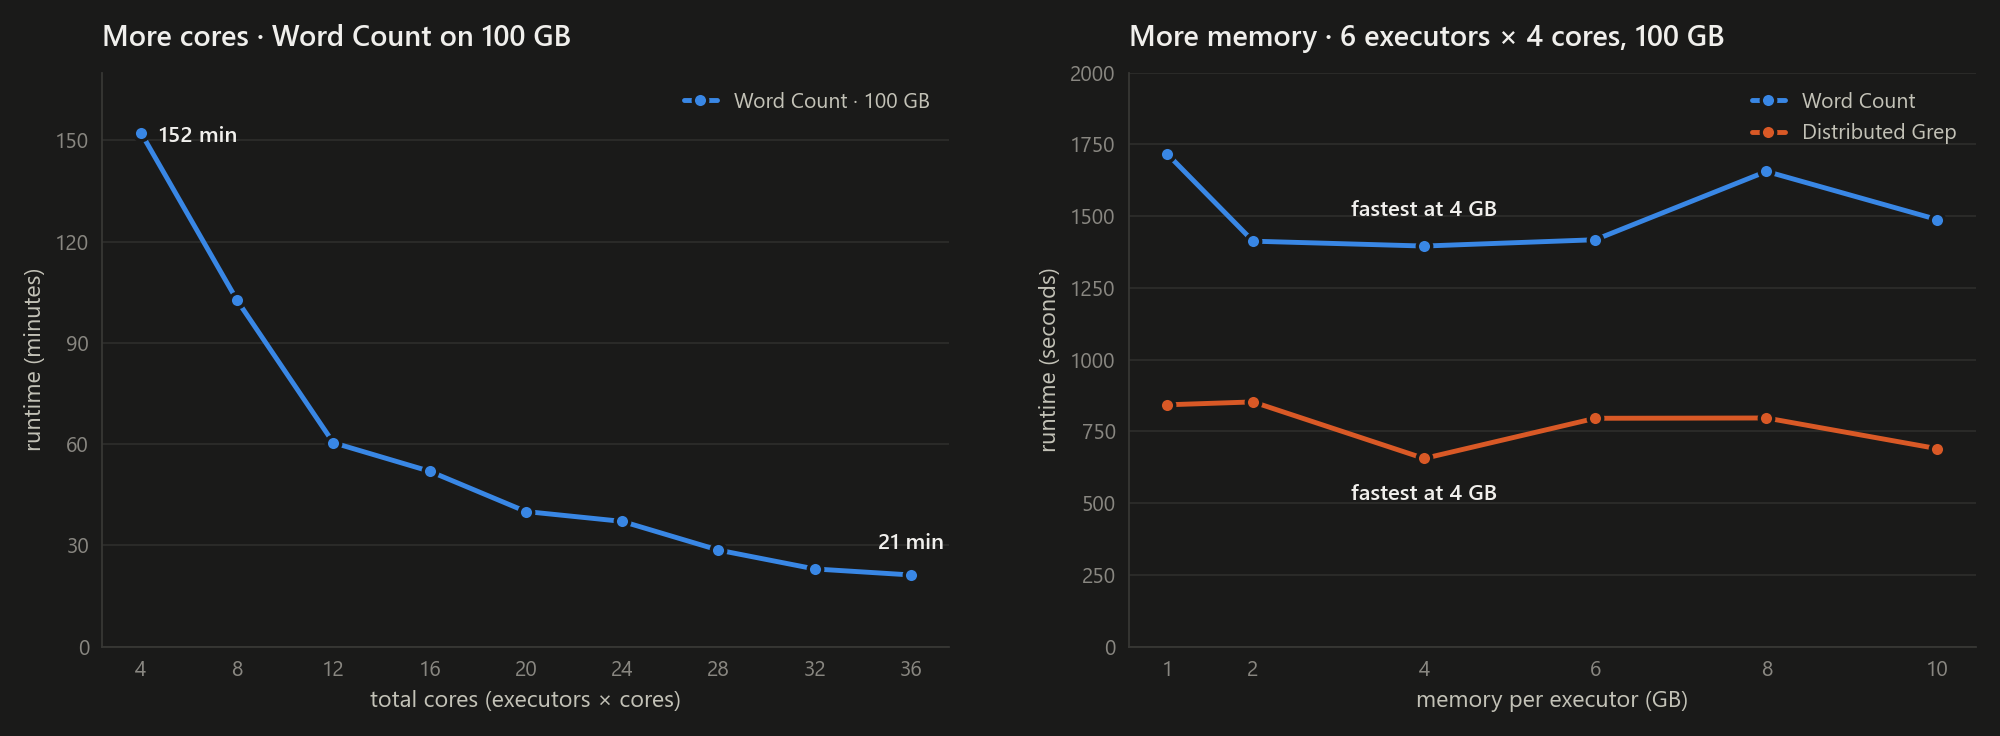
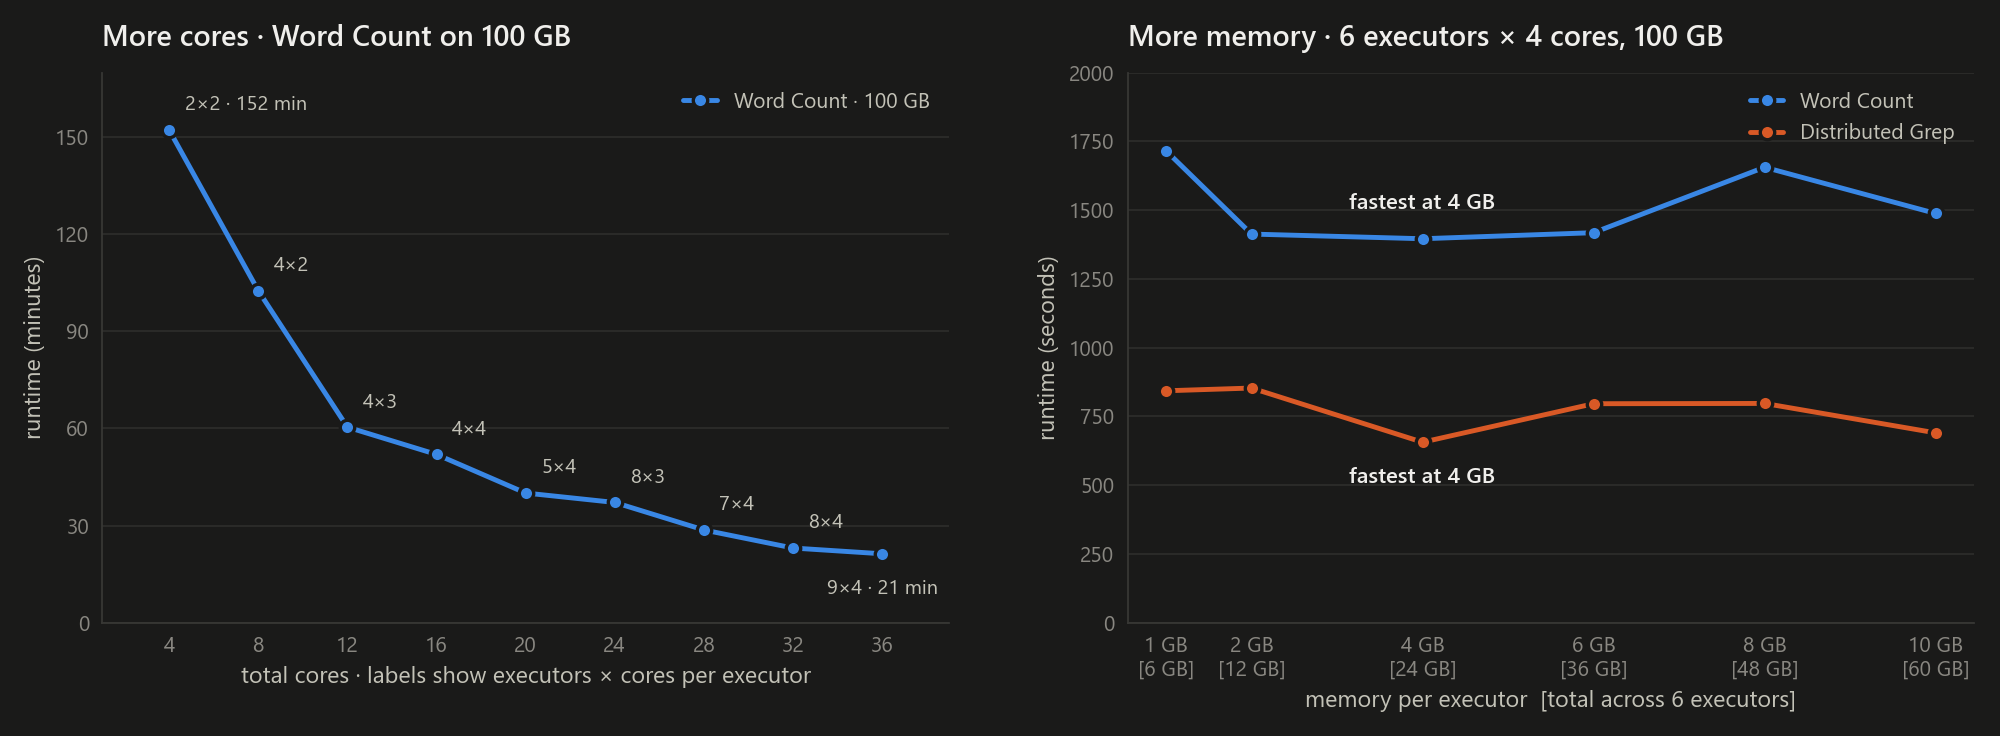
Restore all original chart detail; drop video link; fix map link
- Add runtime-vs-executors charts for all four programs and a throughput
  chart for Statistical Analysis and K-Means, which the speed-up charts
  alone no longer showed
- Label every point on the cores chart with executors x cores, and show
  total memory under each memory setting
- Add the full Word Count dataset x executors sweep as a table
- Remove the demo video link, keeping the full report link
- Replace the GitHub Pages map link (404 while the repo is private) with
  instructions to download and open docs/map/index.html

diff --git a/docs/charts/build_charts.py b/docs/charts/build_charts.py
@@ -103,6 +103,43 @@ for mode, t in THEMES.items():
     legend(b, t)
     save(fig, "executors", mode)
 
+    # 1b - the absolute runtimes behind those speed-ups
+    fig, (a, b) = figure(t)
+    for df, key, name in [(wc_exec, "wc", "Word Count"), (grep_exec, "grep", "Distributed Grep")]:
+        line(a, t, df["num_executors"], df["runtime_seconds"], t[key], name)
+        first, last = df["runtime_seconds"].iloc[0], df["runtime_seconds"].iloc[-1]
+        end_label(a, t, 1, first, f"{first / 60:.0f} min", dx=-10, ha="right")
+        end_label(a, t, 10, last, f"{last / 60:.0f} min", dy=10 if key == "wc" else -10)
+    style(a, t, "Text workloads · runtime, 100 GB (1 core per executor)", "executors", "runtime (minutes)")
+    a.yaxis.set_major_formatter(minutes); a.set_yticks(range(0, 30001, 6000)); a.set_ylim(0, 32000)
+    a.set_xticks(range(1, 11)); a.set_xlim(-0.6, 11.4)
+    legend(a, t, loc="upper right")
+
+    for df, key, name in [(stat_exec, "stat", "Statistical Analysis"), (km_exec, "km", "K-Means")]:
+        line(b, t, df["num_executors"], df["runtime_seconds"], t[key], name)
+        first, last = df["runtime_seconds"].iloc[0], df["runtime_seconds"].iloc[-1]
+        end_label(b, t, 2, first, f"{first:,.0f} s", dx=10)
+        end_label(b, t, 10, last, f"{last:,.0f} s", dy=10 if key == "stat" else -10)
+    style(b, t, "Numerical workloads · runtime, ~100 GB (4 cores per executor)", "executors", "runtime (seconds)")
+    b.set_xticks(range(2, 11, 2)); b.set_xlim(1.6, 11.4); b.set_ylim(0, 1400)
+    legend(b, t, loc="upper right")
+    save(fig, "runtime", mode)
+
+    # 1c - throughput, as plotted in the stat analysis and K-Means notebooks
+    fig, ax = plt.subplots(figsize=(8, 4.4), dpi=160)
+    fig.patch.set_facecolor(t["surface"])
+    for df, key, name in [(stat_exec, "stat", "Statistical Analysis"), (km_exec, "km", "K-Means")]:
+        line(ax, t, df["num_executors"], df["throughput_mbps"], t[key], name)
+        first, last = df["throughput_mbps"].iloc[0], df["throughput_mbps"].iloc[-1]
+        end_label(ax, t, 2, first, f"{first:.0f} MB/s", dx=10, dy=-8 if key == "stat" else 8)
+        end_label(ax, t, 10, last, f"{last:.0f} MB/s")
+    style(ax, t, "Throughput vs executors · NOAA ~100 GB", "executors (4 cores each)", "throughput (MB/s)")
+    ax.set_xticks(range(2, 11, 2)); ax.set_xlim(1.6, 11.8); ax.set_ylim(0, 470)
+    legend(ax, t, loc="upper left")
+    fig.tight_layout()
+    fig.savefig(os.path.join(OUT, f"perf_throughput_{mode}.png"), facecolor=fig.get_facecolor())
+    plt.close(fig)
+
     # 2 - data scaling
     fig, (a, b) = figure(t)
     for n, color in zip([2, 6, 10], t["ramp"]):
@@ -126,11 +163,22 @@ for mode, t in THEMES.items():
     # 3 - cores and memory
     fig, (a, b) = figure(t)
     line(a, t, wc_cores["total_cores"], wc_cores["runtime_seconds"], t["wc"], "Word Count · 100 GB")
-    end_label(a, t, 4, 9136, "152 min", dy=-2)
-    end_label(a, t, 36, 1276, "21 min", dy=14, ha="center", dx=0)
-    style(a, t, "More cores · Word Count on 100 GB", "total cores (executors × cores)", "runtime (minutes)")
+    # label every point with its configuration, as the original notebook chart did
+    # the curve falls to the right, so up-and-right of each point is always clear
+    for _, r in wc_cores.iterrows():
+        cfg = f"{r.num_executors}×{r.executor_cores}"
+        if r.total_cores == 4:
+            cfg += " · 152 min"
+        if r.total_cores == 36:
+            a.annotate(f"{cfg} · 21 min", (r.total_cores, r.runtime_seconds), xytext=(0, -12),
+                       textcoords="offset points", ha="center", va="top", color=t["ink2"], fontsize=9)
+            continue
+        a.annotate(cfg, (r.total_cores, r.runtime_seconds), xytext=(7, 7), textcoords="offset points",
+                   ha="left", va="bottom", color=t["ink2"], fontsize=9)
+    style(a, t, "More cores · Word Count on 100 GB", "total cores · labels show executors × cores per executor",
+          "runtime (minutes)")
     a.yaxis.set_major_formatter(minutes); a.set_yticks(range(0, 9001, 1800)); a.set_ylim(0, 10200)
-    a.set_xticks(range(4, 37, 4))
+    a.set_xticks(range(4, 37, 4)); a.set_xlim(1, 39)
     legend(a, t, loc="upper right")
 
     mem_gb = wc_mem["executor_memory"].str.rstrip("G").astype(int)
@@ -138,8 +186,10 @@ for mode, t in THEMES.items():
     line(b, t, mem_gb, grep_mem["runtime_seconds"], t["grep"], "Distributed Grep")
     end_label(b, t, 4, 1396, "fastest at 4 GB", dy=16, ha="center", dx=0)
     end_label(b, t, 4, 656, "fastest at 4 GB", dy=-16, ha="center", dx=0)
-    style(b, t, "More memory · 6 executors × 4 cores, 100 GB", "memory per executor (GB)", "runtime (seconds)")
+    style(b, t, "More memory · 6 executors × 4 cores, 100 GB", "memory per executor  [total across 6 executors]",
+          "runtime (seconds)")
     b.set_xticks(mem_gb); b.set_ylim(0, 2000)
+    b.set_xticklabels([f"{m} GB\n[{m * 6} GB]" for m in mem_gb])
     legend(b, t, loc="upper right")
     save(fig, "resources", mode)
 

diff --git a/README.md b/README.md
@@ -15,20 +15,19 @@ dataset size) affects runtime and throughput.
 | 3 | **Statistical Analysis** | NOAA GHCN-Daily weather, 1900–2025 (~100 GB) | Explicit schema, `percentile_approx`, MLlib `Bucketizer` frequency distribution |
 | 4 | **K-Means Clustering** | NOAA GHCN-Daily weather (~100 GB) | MLlib `VectorAssembler`, `StandardScaler`, `KMeans` to group weather stations into temperature zones |
 
-🎥 **Demo video:** <https://www.youtube.com/watch?v=Q9mJMntAv3c>
 📄 **Full report:** [`documents/ArbaazJaffer.final.pdf`](documents/ArbaazJaffer.final.pdf)
 
 ### 🌍 Final result: global temperature zones from 100 GB of weather data
 
-<a href="https://arbzzz04.github.io/spark-massive-scale-analytics/map/">
-  <img src="docs/images/kmeans_world_map.png" alt="World map of 40,179 NOAA weather stations coloured by K-Means temperature zone">
-</a>
+<img src="docs/images/kmeans_world_map.png" alt="World map of 40,179 NOAA weather stations coloured by K-Means temperature zone">
 
 Spark MLlib K-Means (k = 5) clustered **40,179 weather stations** using 125 years of daily maximum temperatures.
 No location data went into the model, yet the zones it found match real climate bands: Canada, Scandinavia and
 Russia in the coldest zones, and Mexico, Africa, India, South-East Asia and Australia in the hottest.
-**[▶ Open the interactive map](https://arbzzz04.github.io/spark-massive-scale-analytics/map/)** to zoom in and hover
-over any station. You can also download [`docs/map/index.html`](docs/map/index.html) and open it in a browser.
+
+> **🗺 Interactive version:** zoom, pan and hover over any station to see its name and temperatures. Open
+> [`docs/map/index.html`](docs/map/index.html), click **Download raw file** (⬇) at the top right of the file view,
+> and open the downloaded file in any browser.
 
 ---
 
@@ -291,6 +290,28 @@ executors halves the runtime.
 - **All 10 executors share one physical server.** CPU, memory bandwidth, disk and network are shared, so no workload
   could scale indefinitely here.
 
+**The runtimes behind those speed-ups:**
+
+<picture>
+  <source media="(prefers-color-scheme: dark)" srcset="docs/images/perf_runtime_dark.png">
+  <img src="docs/images/perf_runtime_light.png" alt="Runtime against number of executors for Word Count and Grep in minutes, and for Statistical Analysis and K-Means in seconds">
+</picture>
+
+Word Count on one single-core executor took **8 h 12 min**, and ten executors brought it down to **53 min**. Grep went
+from **4 h 50 min to 27 min**. On the 4-core executors, Statistical Analysis dropped from 1,207 s to 357 s and K-Means
+from 759 s to 256 s. The biggest single drop for both came between 4 and 6 executors, where runtime nearly halved.
+
+**Throughput as executors are added (numerical workloads):**
+
+<picture>
+  <source media="(prefers-color-scheme: dark)" srcset="docs/images/perf_throughput_dark.png">
+  <img src="docs/images/perf_throughput_light.png" width="70%" alt="Throughput in MB/s against number of executors for Statistical Analysis and K-Means">
+</picture>
+
+Throughput rose from 87 to 293 MB/s for Statistical Analysis and from 138 to 409 MB/s for K-Means. The biggest jump
+for both was from 4 to 6 executors. After that, Statistical Analysis levels off between 8 and 10 executors (the
+shared server's bandwidth limit), while K-Means slows between 6 and 8 and then climbs again.
+
 ---
 
 ### ② Scaling the data: 10 GB → 100 GB
@@ -307,6 +328,25 @@ executors halves the runtime.
   growth only takes it from 3 to 16 minutes: the extra parallelism absorbs the extra data (Gustafson's law).
 - **Grep is near-linear:** 10× the data costs 7.3× the time (95 s → 696 s). Throughput actually *rises* from
   ~108 MB/s to ~147 MB/s, because fixed start-up costs are spread over more data.
+
+**Full Word Count sweep** (every run from the tracker; the fastest per dataset size is in bold). The chart above
+plots the 2-, 6- and 10-executor columns:
+
+| Dataset | 2 executors | 4 executors | 6 executors | 8 executors | 10 executors |
+|---|---:|---:|---:|---:|---:|
+| **10 GB** | 584 s | 396 s | 206 s | 201 s | **158 s** |
+| **20 GB** | 988 s | 608 s | 344 s | **271 s** | 274 s |
+| **30 GB** | 1,360 s | 906 s | 536 s | 439 s | **293 s** |
+| **40 GB** | 1,555 s | 1,019 s | 648 s | 492 s | **402 s** |
+| **50 GB** | 2,629 s | 1,108 s | 782 s | 638 s | **445 s** |
+| **60 GB** | 3,433 s | 1,307 s | 933 s | 651 s | **618 s** |
+| **70 GB** | 3,530 s | 1,678 s | 1,021 s | 942 s | **682 s** |
+| **80 GB** | 4,426 s | 1,845 s | 1,228 s | 1,059 s | **869 s** |
+| **90 GB** | 4,976 s | 2,136 s | 1,302 s | 962 s | **802 s** |
+| **100 GB** | 5,533 s | 2,109 s | 1,396 s | 1,112 s | **957 s** |
+
+From 20 GB upwards, going from 2 to 4 executors gives the biggest cut, and the gains flatten out by 8–10 executors.
+The one case where 8 executors beat 10 (20 GB: 271 s vs 274 s) is within run-to-run noise on the shared cluster.
 
 ---
 
